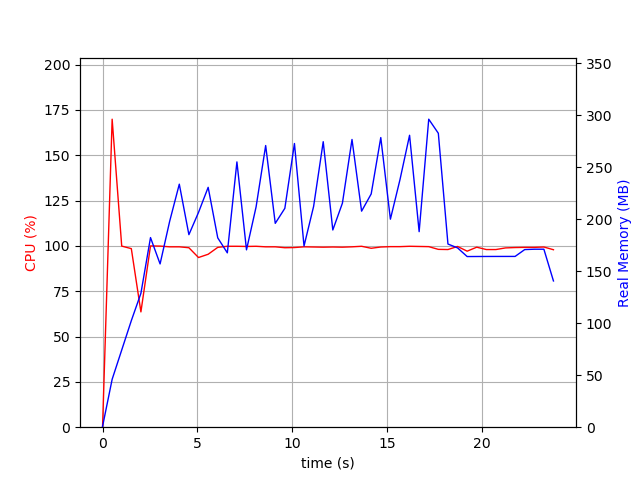
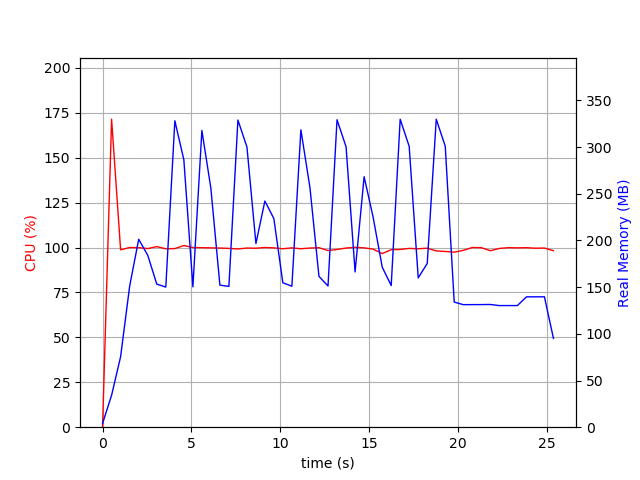
adapt analysis 3d

diff --git a/benchmarks/analysis_3d.py b/benchmarks/analysis_3d.py
@@ -4,13 +4,12 @@ import time
 import yaml
 import os
 from pathlib import Path
-from astropy.coordinates import SkyCoord
 from gammapy.modeling.models import (
     SkyModel,
     ExpCutoffPowerLawSpectralModel,
     PointSpatialModel,
 )
-from gammapy.modeling import Fit
+from gammapy.modeling import Fit, Datasets
 from gammapy.spectrum import FluxPointsEstimator
 from gammapy.data import DataStore
 from gammapy.maps import MapAxis, WcsGeom
@@ -40,36 +39,12 @@ def data_prep():
     )
 
     stacked = MapDataset.create(geom)
-    maker = MapDatasetMaker(offset_max=4.0 * u.deg)
+    maker = MapDatasetMaker()
     safe_mask_maker = SafeMaskMaker(methods=["offset-max"], offset_max="4 deg")
     for obs in observations:
         dataset = maker.run(stacked, obs)
         dataset = safe_mask_maker.run(dataset, obs)
         stacked.stack(dataset)
-
-    stacked.edisp = stacked.edisp.get_energy_dispersion(
-        position=SkyCoord(0, 0, unit="deg", frame="galactic"), e_reco=energy_axis.edges
-    )
-
-    stacked.psf = stacked.psf.get_psf_kernel(
-        position=SkyCoord(0, 0, unit="deg", frame="galactic"),
-        geom=geom,
-        max_radius="0.3 deg",
-    )
-
-    return stacked
-
-
-def write(stacked, filename):
-    stacked.write(filename, overwrite=True)
-
-
-def read(filename):
-    return MapDataset.read(filename)
-
-
-def data_fit(stacked):
-    # Data fitting
 
     spatial_model = PointSpatialModel(
         lon_0="0.01 deg", lat_0="0.01 deg", frame="galactic"
@@ -86,19 +61,32 @@ def data_fit(stacked):
 
     stacked.model = model
 
-    fit = Fit([stacked])
+    return Datasets([stacked])
+
+
+def write(stacked, filename):
+    stacked.write(path=os.getcwd(), prefix=filename)
+
+
+def read(filename):
+    return Datasets.read(f"{filename}_datasets.yaml",f"{filename}_models.yaml")
+
+
+def data_fit(stacked):
+    # Data fitting
+    fit = Fit(stacked)
     result = fit.run(optimize_opts={"print_level": 1})
 
 
 def flux_point(stacked):
     e_edges = [0.3, 1, 3, 10] * u.TeV
-    fpe = FluxPointsEstimator(datasets=[stacked], e_edges=e_edges, source="gc-source")
+    fpe = FluxPointsEstimator(datasets=stacked, e_edges=e_edges, source="gc-source")
     fpe.run()
 
 
 def run_benchmark():
     info = {"n_obs": N_OBS}
-    filename = "stacked_3d.fits.gz"
+    filename = "stacked"
 
     t = time.time()
 
